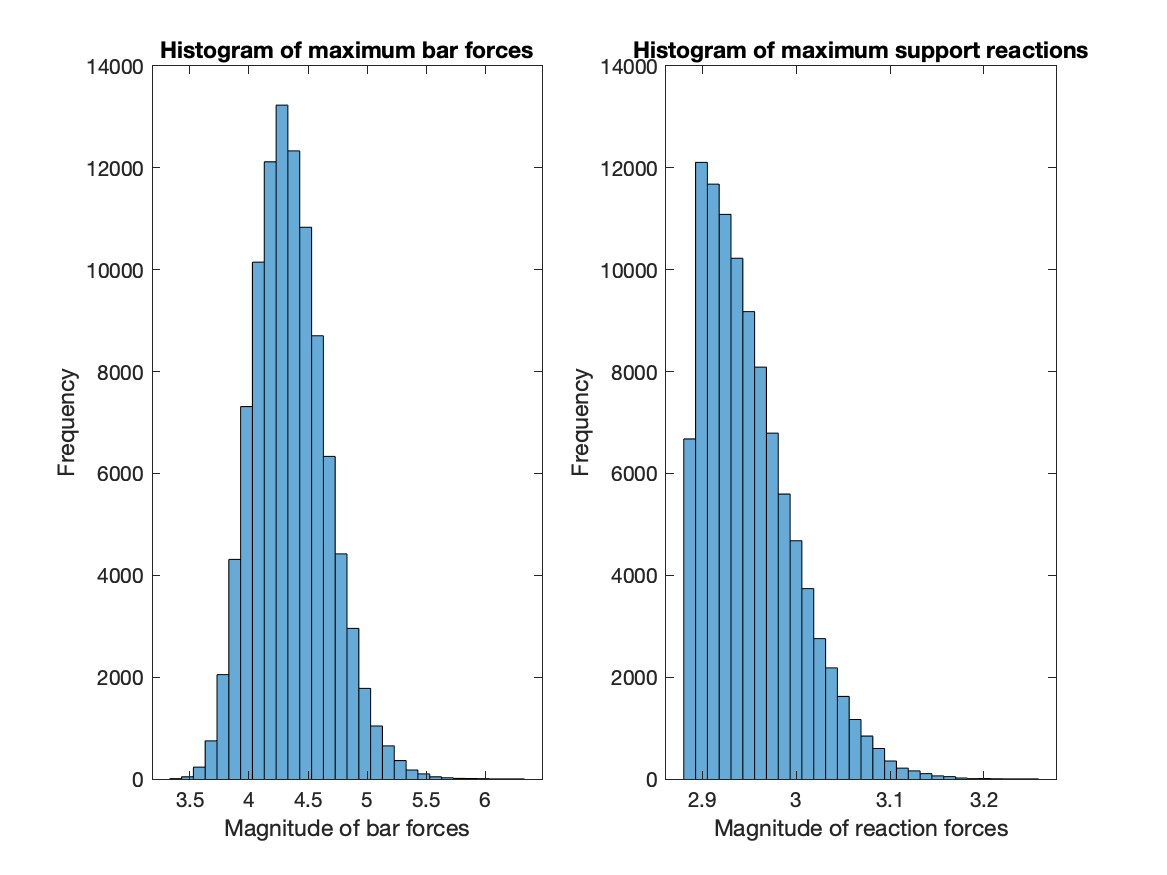
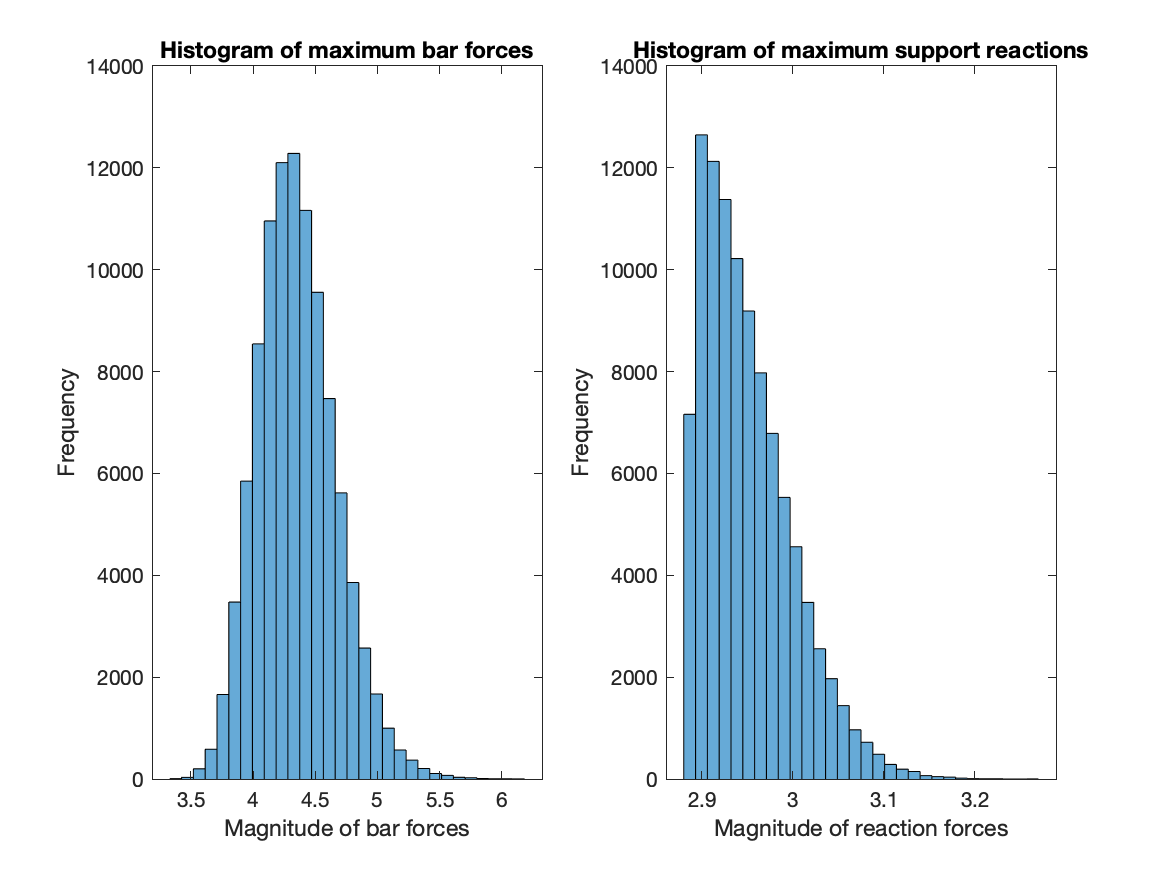
adjusted position of the truss

diff --git a/Lab2/Truss3d/Design2/TrussInNOutDesign2.m b/Lab2/Truss3d/Design2/TrussInNOutDesign2.m
@@ -4,7 +4,7 @@ close all;
 
 inputfile = 'Design2.inp';
 outputfile = 'Design2Out.txt';
-AssumedFail = 0.5 ;
+AssumedFail = 0.65 ;
 LinDensity = 31.13 / 1000 ; % Bars linear density kg / m 
 slevemass = (5.35/1000); % mass in kg
 jointmass = 0.00845; % in kg
